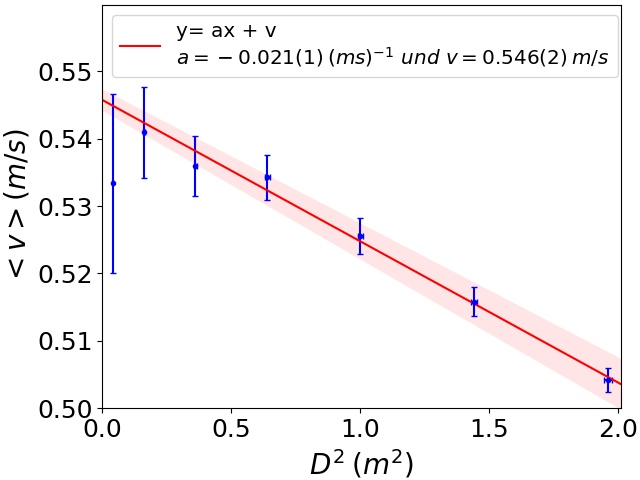
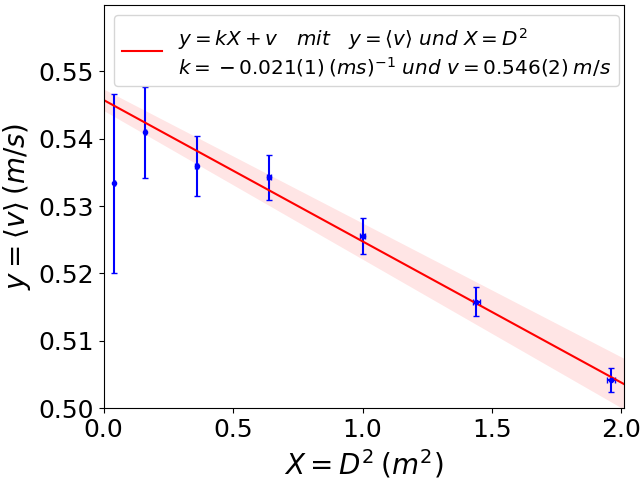
boh

diff --git a/Versuch6/scripts/avg_speed.py b/Versuch6/scripts/avg_speed.py
@@ -23,8 +23,8 @@ def get_settings():
     general_sets.dataset_folder = "../datasets/"
     general_sets.dataset_file_name = "mittlere_geschwindigkeit.csv"
 
-    general_sets.x_label = r"$D^2 \:(m^2)$"
-    general_sets.y_label = r"$<v> (m/s)$"
+    general_sets.x_label = r"$X = D^2 \:(m^2)$"
+    general_sets.y_label = r"$y = \langle v \rangle \: (m/s)$"
 
     general_sets.graph_format = ["b.","r-","y--","y--"]
     #general_sets.fitted_graph_label = "Gefittete Kurve: " + r"$y = A\:\cos(\omega t + \phi)\: e^{-\beta t}$"
@@ -79,13 +79,13 @@ def plot_line(sets):
     a_str = fmtr.format("{0:.1u}",params[0])
     v_str = fmtr.format("{0:.1u}",params[1])
 
-    sets.graph_label[1] = "y= ax + v\n" + r"$a={}\:$".format(a_str) + r"$(ms)^{-1}\ und\ $" + r"$v={}\: m/s$".format(v_str)
+    sets.graph_label[1] = r"$y= kX + v$" + r"$\quad mit\quad y= \langle v \rangle \ und\ X=D^2$" +"\n"+ r"$k={}\:$".format(a_str) + r"$(ms)^{-1}\ und\ $" + r"$v={}\: m/s$".format(v_str)
     #fig, ax = plot_multi_2(sets, x_values = [distances2_n,x_fit,x_fit,x_fit], y_values = [v_avg_n,y_fit,y_fit_up,y_fit_down], x_err = [distances2_s,[],[],[]], y_err = [v_avg_s,[], [],[]])
     fig, ax = plot_multi_2(sets, x_values = [distances2_n,x_fit], y_values = [v_avg_n,y_fit], x_err = [distances2_s,[]], y_err = [v_avg_s,[]])
     ax.fill_between(x_fit,y_fit_up,y_fit_down, facecolor = "r", alpha = 0.1)
     ax.set_xbound(0,2.01)
     ax.set_ybound(0.5,0.5599)
-    plt.subplots_adjust(left=0.16, right = 0.97, bottom = 0.15, top = 0.99)
+    plt.subplots_adjust(left=0.162, right = 0.975, bottom = 0.15, top = 0.99)
     #ax.spines['top'].set_visible(False)
     #ax.spines['right'].set_visible(False)
 
